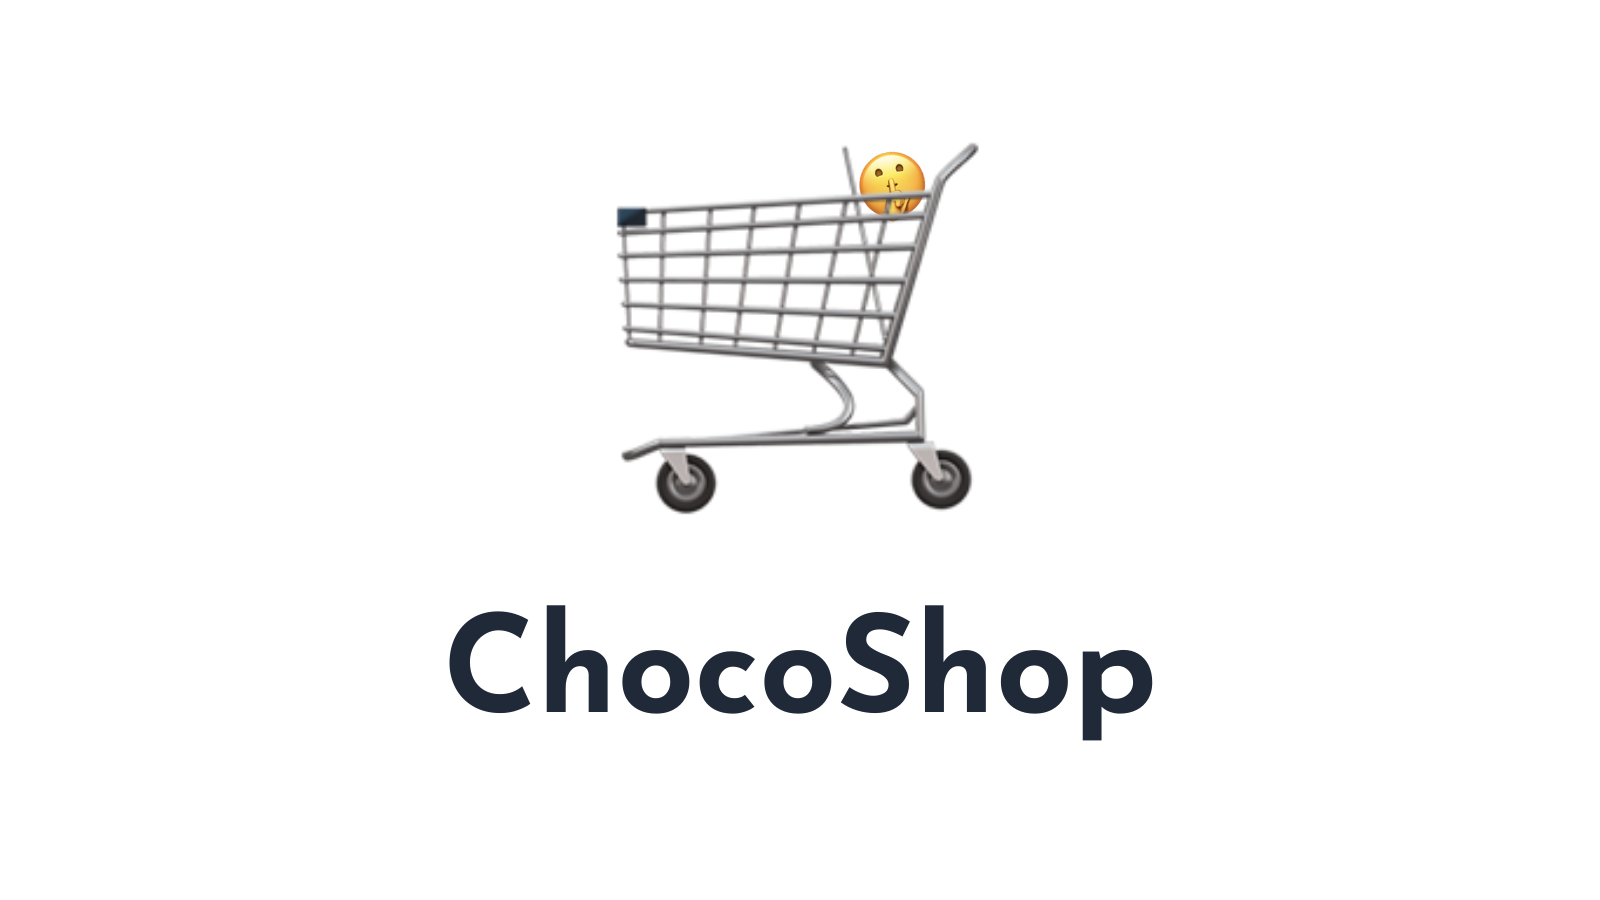
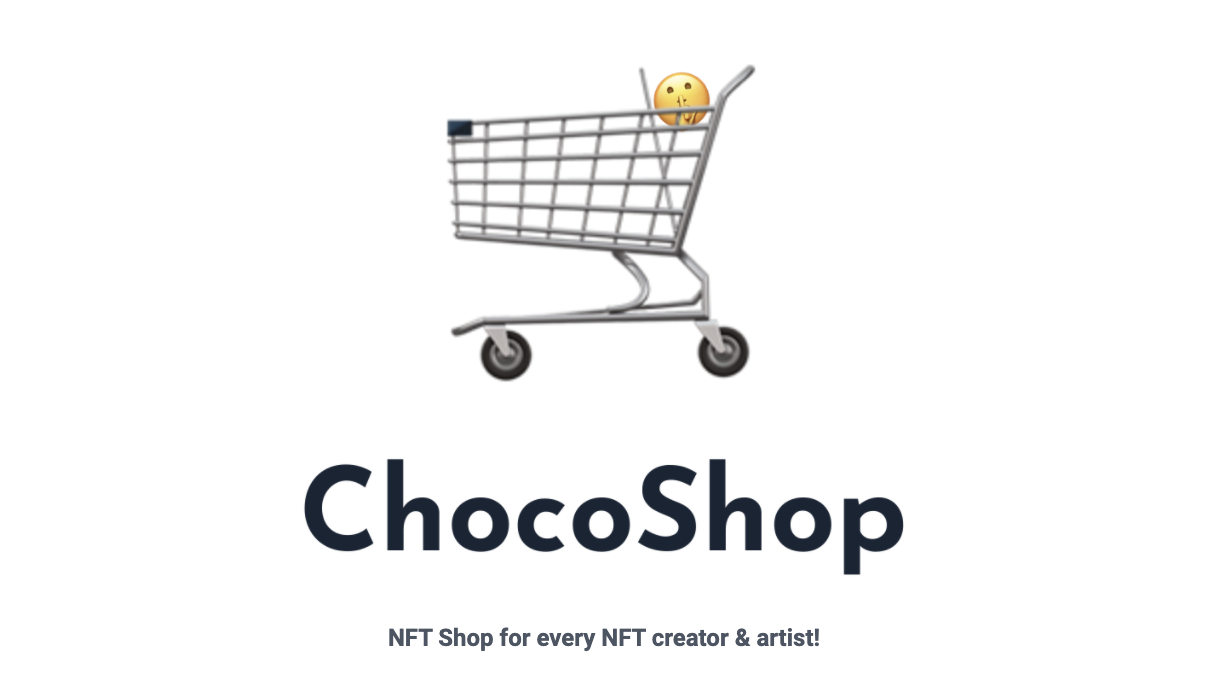
added mock

Changed region(s): [[0.3398, 0.0916, 0.6179, 0.5799], [0.2472, 0.6715, 0.7415, 0.8547], [0.3089, 0.9157, 0.6797, 0.9462]]

diff --git a/packages/frontend/src/components/organisms/NFT.tsx b/packages/frontend/src/components/organisms/NFT.tsx
@@ -1,7 +1,10 @@
 import React from "react";
+import { ChainId } from "../../../../contracts/helpers/types";
 import { shortenText } from "../../modules/util";
+import { getContractsForChainId } from "../../modules/web3";
 import { Metadata, NFTContract } from "../../types";
 import { Button } from "../atoms/Button";
+import { FormInput } from "../molecules/FormInput";
 import { Shares } from "../molecules/Shares";
 
 export interface NFT {
@@ -10,8 +13,14 @@ export interface NFT {
 }
 
 export const NFT: React.FC<NFT> = ({ metadata, nftContract }) => {
+  const [inputPrice, setInputPrice] = React.useState("");
+
   const buy = () => {
-    console.log(buy);
+    const { chocoshopContract, explore, provider } = getContractsForChainId(nftContract.chainId as ChainId);
+  };
+
+  const sell = () => {
+    const { chocoshopContract, explore, provider } = getContractsForChainId(nftContract.chainId as ChainId);
   };
 
   return (
@@ -32,11 +41,25 @@ export const NFT: React.FC<NFT> = ({ metadata, nftContract }) => {
               <p className="text-lg text-gray-500 font-medium">Buy Price</p>
               <p className="text-2xl sm:text-3xl text-gray-700 font-medium">PRICE</p>
             </div>
+            <div>
+              <p className="text-lg text-gray-500 font-medium">Sell Price</p>
+              <FormInput value={inputPrice} setState={setInputPrice} type="number" placeholder="MATIC" />
+            </div>
           </div>
           <div className="mb-4">
             <div className="grid grid-cols-2 space-x-2">
               <Button onClick={buy}>
                 <div className="flex justify-center items-center">Buy</div>
+              </Button>
+            </div>
+            <div className="grid grid-cols-2 space-x-2">
+              <Button onClick={buy}>
+                <div className="flex justify-center items-center">Sell</div>
+              </Button>
+            </div>
+            <div className="grid grid-cols-2 space-x-2">
+              <Button onClick={buy}>
+                <div className="flex justify-center items-center">Cancel</div>
               </Button>
             </div>
           </div>

diff --git a/packages/frontend/src/modules/web3.ts b/packages/frontend/src/modules/web3.ts
@@ -3,16 +3,11 @@ import { ethers } from "ethers";
 import Web3 from "web3";
 import Web3Modal from "web3modal";
 import { abi as chocoshopAbi } from "../../../contracts/artifacts/contracts/Chocoshop.sol/Chocoshop.json";
+import { abi as erc721Abi } from "../../../contracts/artifacts/contracts/mock/MockNFT.sol/MockNft.json";
 import chainIdConfig from "../../../contracts/chainIds.json";
 import { NetworkName, ChainId } from "../../../contracts/helpers/types";
 import networkConfig from "../../../contracts/networks.json";
-import { Chocoshop } from "../../../contracts/typechain";
-
-export const chainIdLabels =
-  process.env.NODE_ENV == "development" ? ["Local", "Rinkeby", "Mainnet", "Matic", "BSC"] : ["Mainnet", "Matic", "BSC"];
-
-export const chainIdValues =
-  process.env.NODE_ENV == "development" ? ["31337", "4", "1", "137", "56"] : ["1", "137", "56"];
+import { Chocoshop, MockNft } from "../../../contracts/typechain";
 
 export const providerOptions = {
   walletconnect: {
@@ -55,6 +50,14 @@ export const getContractsForChainId = (chainId: ChainId) => {
   const networkName = getNetworkNameFromChainId(chainId);
   const { chocoshop, rpc, explore } = networkConfig[networkName];
   const provider = new ethers.providers.JsonRpcProvider(rpc);
+
   const chocoshopContract = new ethers.Contract(chocoshop, chocoshopAbi, provider) as Chocoshop;
-  return { chocoshopContract, explore, provider };
+
+  // this takes null address because it requires address from path
+  const erc721Contract = new ethers.Contract(
+    "0x0000000000000000000000000000000000000000",
+    erc721Abi,
+    provider
+  ) as MockNft;
+  return { chocoshopContract, erc721Contract, explore, provider };
 };

diff --git a/packages/contracts/helpers/migrations.ts b/packages/contracts/helpers/migrations.ts
@@ -3,6 +3,7 @@ import * as path from "path";
 import hre, { ethers } from "hardhat";
 
 import networks from "../networks.json";
+import { MINT_FIXTURES_TO } from "./constants";
 import { NetworkName } from "./types";
 
 export const filePath = "../networks.json";
@@ -25,5 +26,21 @@ export const deployChocoshop = async () => {
   });
   networkName != "localhost" && console.log(contractName, "deployed at", contract.address);
   updateJson(contractName, contract.address);
+  return contract;
+};
+
+export const prepareFixtures = async () => {
+  const contractName = "MockNft";
+  const Contract = await ethers.getContractFactory(contractName);
+  const contract = await Contract.deploy({
+    gasPrice,
+  });
+  networkName != "localhost" && console.log(contractName, "deployed at", contract.address);
+  updateJson(contractName, contract.address);
+  await contract.mint(MINT_FIXTURES_TO);
+  await contract.mint(MINT_FIXTURES_TO);
+  await contract.mint(MINT_FIXTURES_TO);
+  await contract.mint(MINT_FIXTURES_TO);
+  await contract.mint(MINT_FIXTURES_TO);
   return contract;
 };

diff --git a/packages/frontend/src/pages/_chainId/_contractAddress/_tokenId/index.tsx b/packages/frontend/src/pages/_chainId/_contractAddress/_tokenId/index.tsx
@@ -17,11 +17,18 @@ export const NFT: React.FC = () => {
   React.useEffect(() => {
     if (chainId !== "31337" && chainId !== "137") {
       history.push("/");
+      return;
     }
-    getNFT(chainId, nftContractAddress, tokenId).then(({ metadata, nftContract }) => {
-      setMetadata(metadata);
-      setNftContract(nftContract);
-    });
+    getNFT(chainId, nftContractAddress, tokenId)
+      .then(({ metadata, nftContract }) => {
+        setMetadata(metadata);
+        setNftContract(nftContract);
+      })
+      .catch((err) => {
+        console.log(err);
+        history.push("/");
+        return;
+      });
   });
 
   return nftContract && metadata ? <NFTTemplate metadata={metadata} nftContract={nftContract} /> : <></>;

diff --git a/packages/frontend/src/components/organisms/Hero.tsx b/packages/frontend/src/components/organisms/Hero.tsx
@@ -7,12 +7,10 @@ export const Hero: React.FC = () => {
       <div className="w-full">
         <div className="flex flex-col items-center mx-auto">
           <img className="h-80" src="/img/hero.png" />
-          <p className="text-secondary text-xs mb-8">Creating NFT Shop for every NFT creator & artist!</p>
+          <p className="text-secondary font-bold text-xs mb-8">NFT Shop for every NFT creator & artist!</p>
           <div className="flex items-center justify-center">
             <a href="https://factory.chocomint.app/mypage">
-              <Button>
-                Create<span className="ml-2">👷</span>
-              </Button>
+              <Button>Create</Button>
             </a>
           </div>
         </div>

diff --git a/packages/frontend/public/index.html b/packages/frontend/public/index.html
@@ -9,7 +9,7 @@
     <meta property="og:url" content="https://shop.chocomint.app" />
     <meta property="og:type" content="website" />
     <meta property="og:title" content="Chocoshop" />
-    <meta property="og:description" content="Creating NFT Shop for every NFT creator & artist!" />
+    <meta property="og:description" content="NFT Shop for every NFT creator & artist!" />
     <meta property="og:site_name" content="Chocoshop" />
     <meta property="og:image" content="https://shop.chocomint.app/img/ogp.png" />
   </head>

diff --git a/packages/frontend/src/components/utils/hooks.tsx b/packages/frontend/src/components/utils/hooks.tsx
@@ -84,6 +84,7 @@ export const useWallet = () => {
     const web3 = await getWeb3(provider);
     const signer = await getEthersSigner(provider);
     const signerAddress = await signer.getAddress();
+    setSignerAddressState(signerAddress);
     return { web3, signer, signerAddress };
   };
 

diff --git a/packages/frontend/src/components/organisms/Header.tsx b/packages/frontend/src/components/organisms/Header.tsx
@@ -20,7 +20,6 @@ export const Header: React.FC = () => {
       await connectWallet();
       closeLoadingOverlay();
     } catch (err) {
-      console.log(err);
       closeLoadingOverlay();
       openNotificationToast({ type: "error", text: err.message });
     }

diff --git a/packages/contracts/helpers/constants.ts b/packages/contracts/helpers/constants.ts
@@ -1,3 +1,5 @@
 // export const HAS_SECONRARY_SALE_FEES = 0xb7799584;
 // export const ERC721_INTERFACE_ID = 0x80ac58cd;
 // export const ERC721_METADATA_INTERFACE_ID = 0x5b5e139f;
+
+export const MINT_FIXTURES_TO = "0xf39Fd6e51aad88F6F4ce6aB8827279cffFb92266";

diff --git a/packages/frontend/src/types.d.ts b/packages/frontend/src/types.d.ts
@@ -18,3 +18,12 @@ export interface Metadata {
   image: string;
   animationUrl: string;
 }
+
+export interface Sale {
+  nftContractAddress: string;
+  tokenId: number;
+  from: string;
+  price: string;
+  createdAt: string;
+  updatedAt: string;
+}

diff --git a/packages/contracts/scripts/99_prepareFixtures.ts b/packages/contracts/scripts/99_prepareFixtures.ts
@@ -1,0 +1,8 @@
+import { prepareFixtures } from "../helpers/migrations";
+
+prepareFixtures()
+  .then(() => process.exit(0))
+  .catch((error) => {
+    console.error(error);
+    process.exit(1);
+  });
